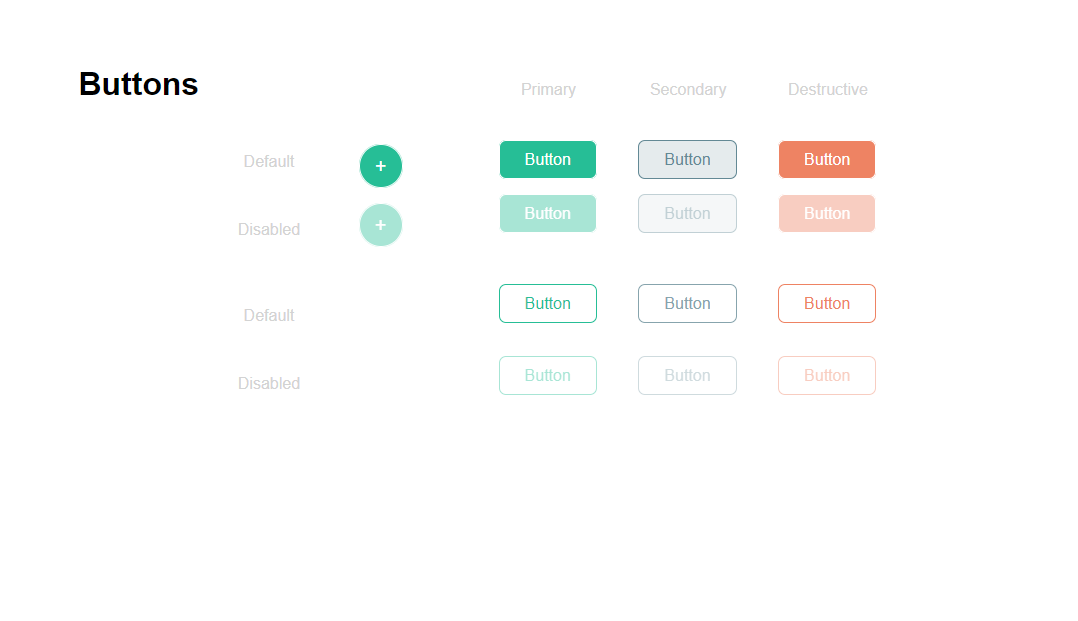
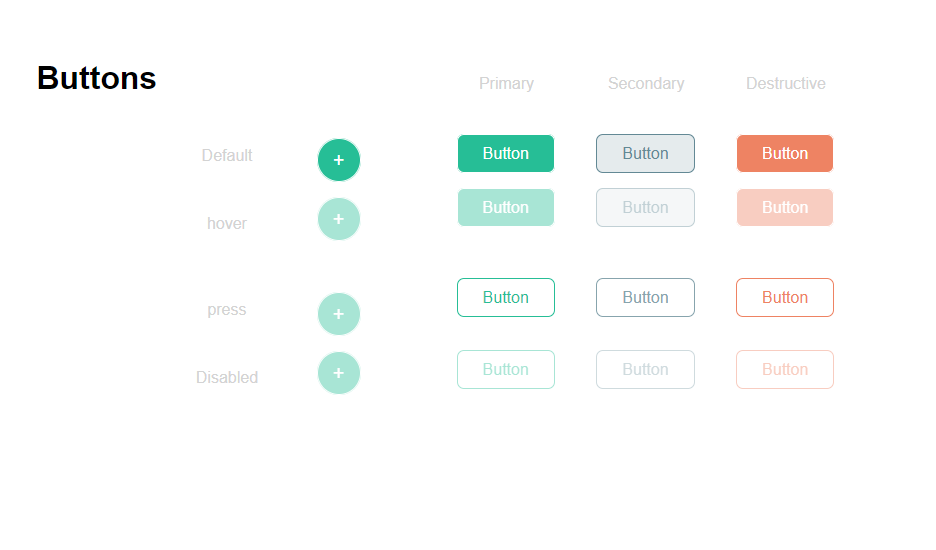
commit all

diff --git a/Lab/Lab 2/Lab 2.html b/Lab/Lab 2/Lab 2.html
@@ -1,5 +1,6 @@
 <!DOCTYPE html>
 <html lang="en">
+
 <head>
     <meta charset="UTF-8">
     <meta http-equiv="X-UA-Compatible" content="IE=edge">
@@ -7,100 +8,112 @@
     <title>Button</title>
     <link rel="stylesheet" href="./style.css">
 </head>
+
 <body>
     <div class="main">
         <h1>Buttons</h1>
         <div>
-          <br />
-          <br />
-          <br />
-          <br />
-          <p>Default</p>
-          <br />
-          <p>Disabled</p>
-          <br />
-          <br />
-          <p>Default</p>
-          <br>
-          <p>Disabled</p>
+            <br />
+            <br />
+            <br />
+            <br />
+            <p>Default</p>
+            <br />
+            <p>hover</p>
+            <br />
+            <br />
+            <p>press</p>
+            <br>
+            <p>Disabled</p>
         </div>
-  
+
         <div>
-          <br />
-          <br />
-          <br />
-          <br />
-          <br />
-          <a href="#" class="btn btn-circle">+</a>
-          <br />
-          <br />
-          <br />
-          <a href="#" class="btn btn-circle disabled">+</a>
-        </div>
-        <div>
-          <p>Primary</p>
-          <br />
-          <br />
-          <a href="#" class="btn btn-primary">Button</a>
-          <br />
-          <br />
-          <br />
-          <a href="#" class="btn btn-primary disabled">Button</a>
-          <br />
-          <br />
-          <br />
-          <br />
-          <br />
-          <a href="#" class="btn btn-p2">Button</a>
-          <br />
-          <br />
-          <br />
-          <br />
-          <a href="#" class="btn btn-p2 disabled">Button</a>
+            <br />
+            <br />
+            <br />
+            <br />
+            <br />
+            <a href="#" class="btn btn-circle">+</a>
+            <br />
+            <br />
+            <br />
+            <a href="#" class="btn btn-circle disabled">+</a>
+            <br />
+            <br />
+            <br />
+            <br />
+            <br />
+            <a href="#" class="btn btn-circle disabled">+</a>
+            <br />
+            <br />
+            <br />
+            <a href="#" class="btn btn-circle disabled">+</a>
         </div>
         <div>
-          <p>Secondary</p>
-          <br />
-          <br />
-          <a href="#" class="btn btn-secondary">Button</a>
-          <br />
-          <br />
-          <br />
-          <a href="#" class="btn btn-secondary disabled">Button</a>
-          <br />
-          <br />
-          <br />
-          <br />
-          <br />
-          <a href="#" class="btn btn-s2">Button</a>
-          <br>
-          <br />
-          <br />
-          <br />
-          <a href="#" class="btn btn-s2 disabled">Button</a>
+            <p>Primary</p>
+            <br />
+            <br />
+            <a href="#" class="btn btn-primary">Button</a>
+            <br />
+            <br />
+            <br />
+            <a href="#" class="btn btn-primary disabled">Button</a>
+            <br />
+            <br />
+            <br />
+            <br />
+            <br />
+            <a href="#" class="btn btn-p2">Button</a>
+            <br />
+            <br />
+            <br />
+            <br />
+            <a href="#" class="btn btn-p2 disabled">Button</a>
         </div>
         <div>
-          <p>Destructive</p>
-          <br />
-          <br />
-          <a href="#" class="btn btn-destructive">Button</a>
-          <br />
-          <br />
-          <br />
-          <a href="#" class="btn btn-destructive disabled">Button</a>
-          <br />
-          <br />
-          <br />
-          <br />
-          <br />
-          <a href="#" class="btn btn-d2">Button</a>
-          <br>
-          <br />
-          <br />
-          <br />
-          <a href="#" class="btn btn-d2 disabled">Button</a>
+            <p>Secondary</p>
+            <br />
+            <br />
+            <a href="#" class="btn btn-secondary">Button</a>
+            <br />
+            <br />
+            <br />
+            <a href="#" class="btn btn-secondary disabled">Button</a>
+            <br />
+            <br />
+            <br />
+            <br />
+            <br />
+            <a href="#" class="btn btn-s2">Button</a>
+            <br>
+            <br />
+            <br />
+            <br />
+            <a href="#" class="btn btn-s2 disabled">Button</a>
         </div>
-            </div>
-    
+        <div>
+            <p>Destructive</p>
+            <br />
+            <br />
+            <a href="#" class="btn btn-destructive">Button</a>
+            <br />
+            <br />
+            <br />
+            <a href="#" class="btn btn-destructive disabled">Button</a>
+            <br />
+            <br />
+            <br />
+            <br />
+            <br />
+            <a href="#" class="btn btn-d2">Button</a>
+            <br>
+            <br />
+            <br />
+            <br />
+            <a href="#" class="btn btn-d2 disabled">Button</a>
+        </div>
+    </div>
+
 </body>
+
 </html>
